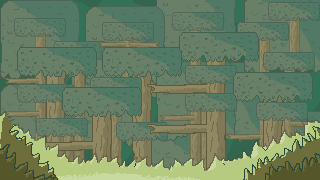
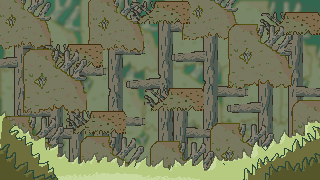
added more sprites, fixed overlay

diff --git a/deco2800.arcade.junglejump/src/main/java/deco2800/arcade/junglejump/GUI/junglejump.java b/deco2800.arcade.junglejump/src/main/java/deco2800/arcade/junglejump/GUI/junglejump.java
@@ -198,7 +198,7 @@ public class junglejump extends GameClient implements InputProcessor {
 		super.create();
 
 		System.out.println(System.getProperty("user.dir"));
-		texture = new Texture(Gdx.files.internal("mainscreen.png"));
+		texture = new Texture(Gdx.files.internal("mainscreen2.png"));
 		monkeySit = new Texture(Gdx.files.internal("monkeySit.png"));
 		monkeySitRIGHT = new Texture(Gdx.files.internal("monkeySit.png"));
 		monkeySitLEFT = new Texture(Gdx.files.internal("monkeySitLEFT.png"));
@@ -290,6 +290,7 @@ public class junglejump extends GameClient implements InputProcessor {
 	}
 
 	public void resize(int w, int h) {
+		super.resize(w,h);
 		Gdx.app.log(junglejump.messages, "Resizing game width " + w
 				+ " height " + h);
 	}
@@ -756,9 +757,9 @@ public class junglejump extends GameClient implements InputProcessor {
 		if (keycode == Keys.UP) {
 			if (gameState != GameState.INPROGRESS) {
 				if (butY < NEW_GAME) {
-					menuSound.start();
+					//menuSound.start();
 					butY += 37.5;
-					menuSound.stop();
+					//menuSound.stop();
 				}
 			}
 
